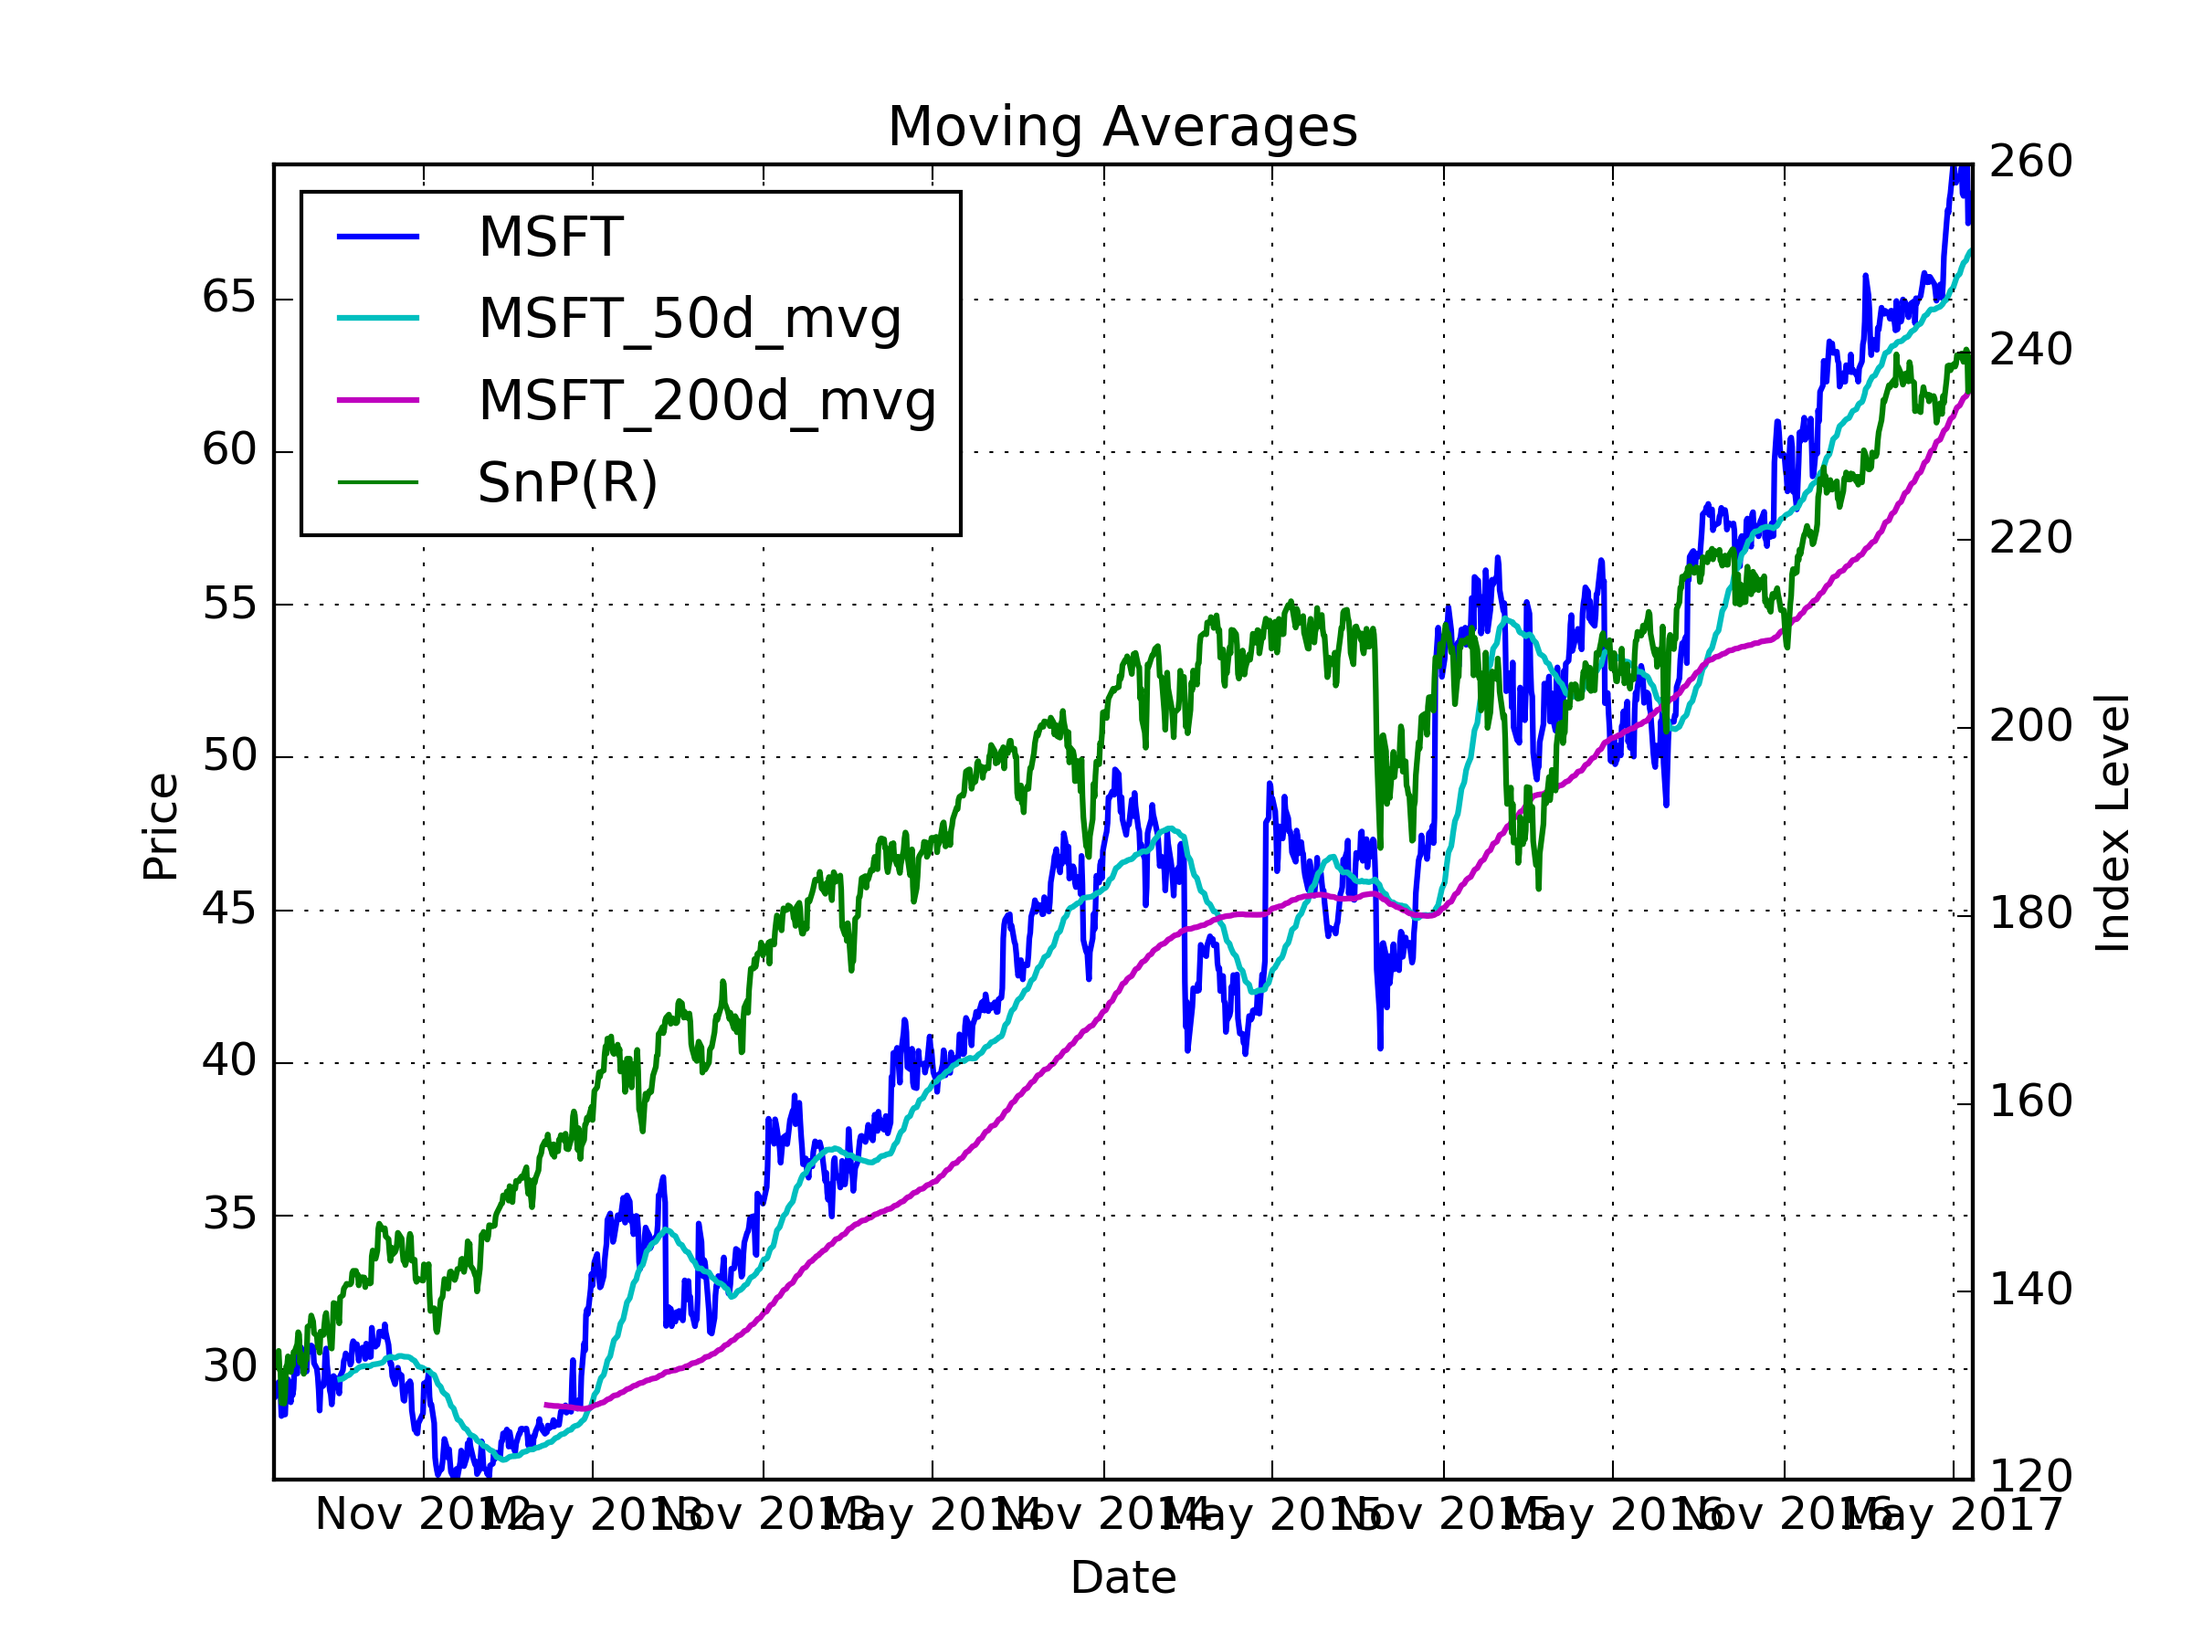
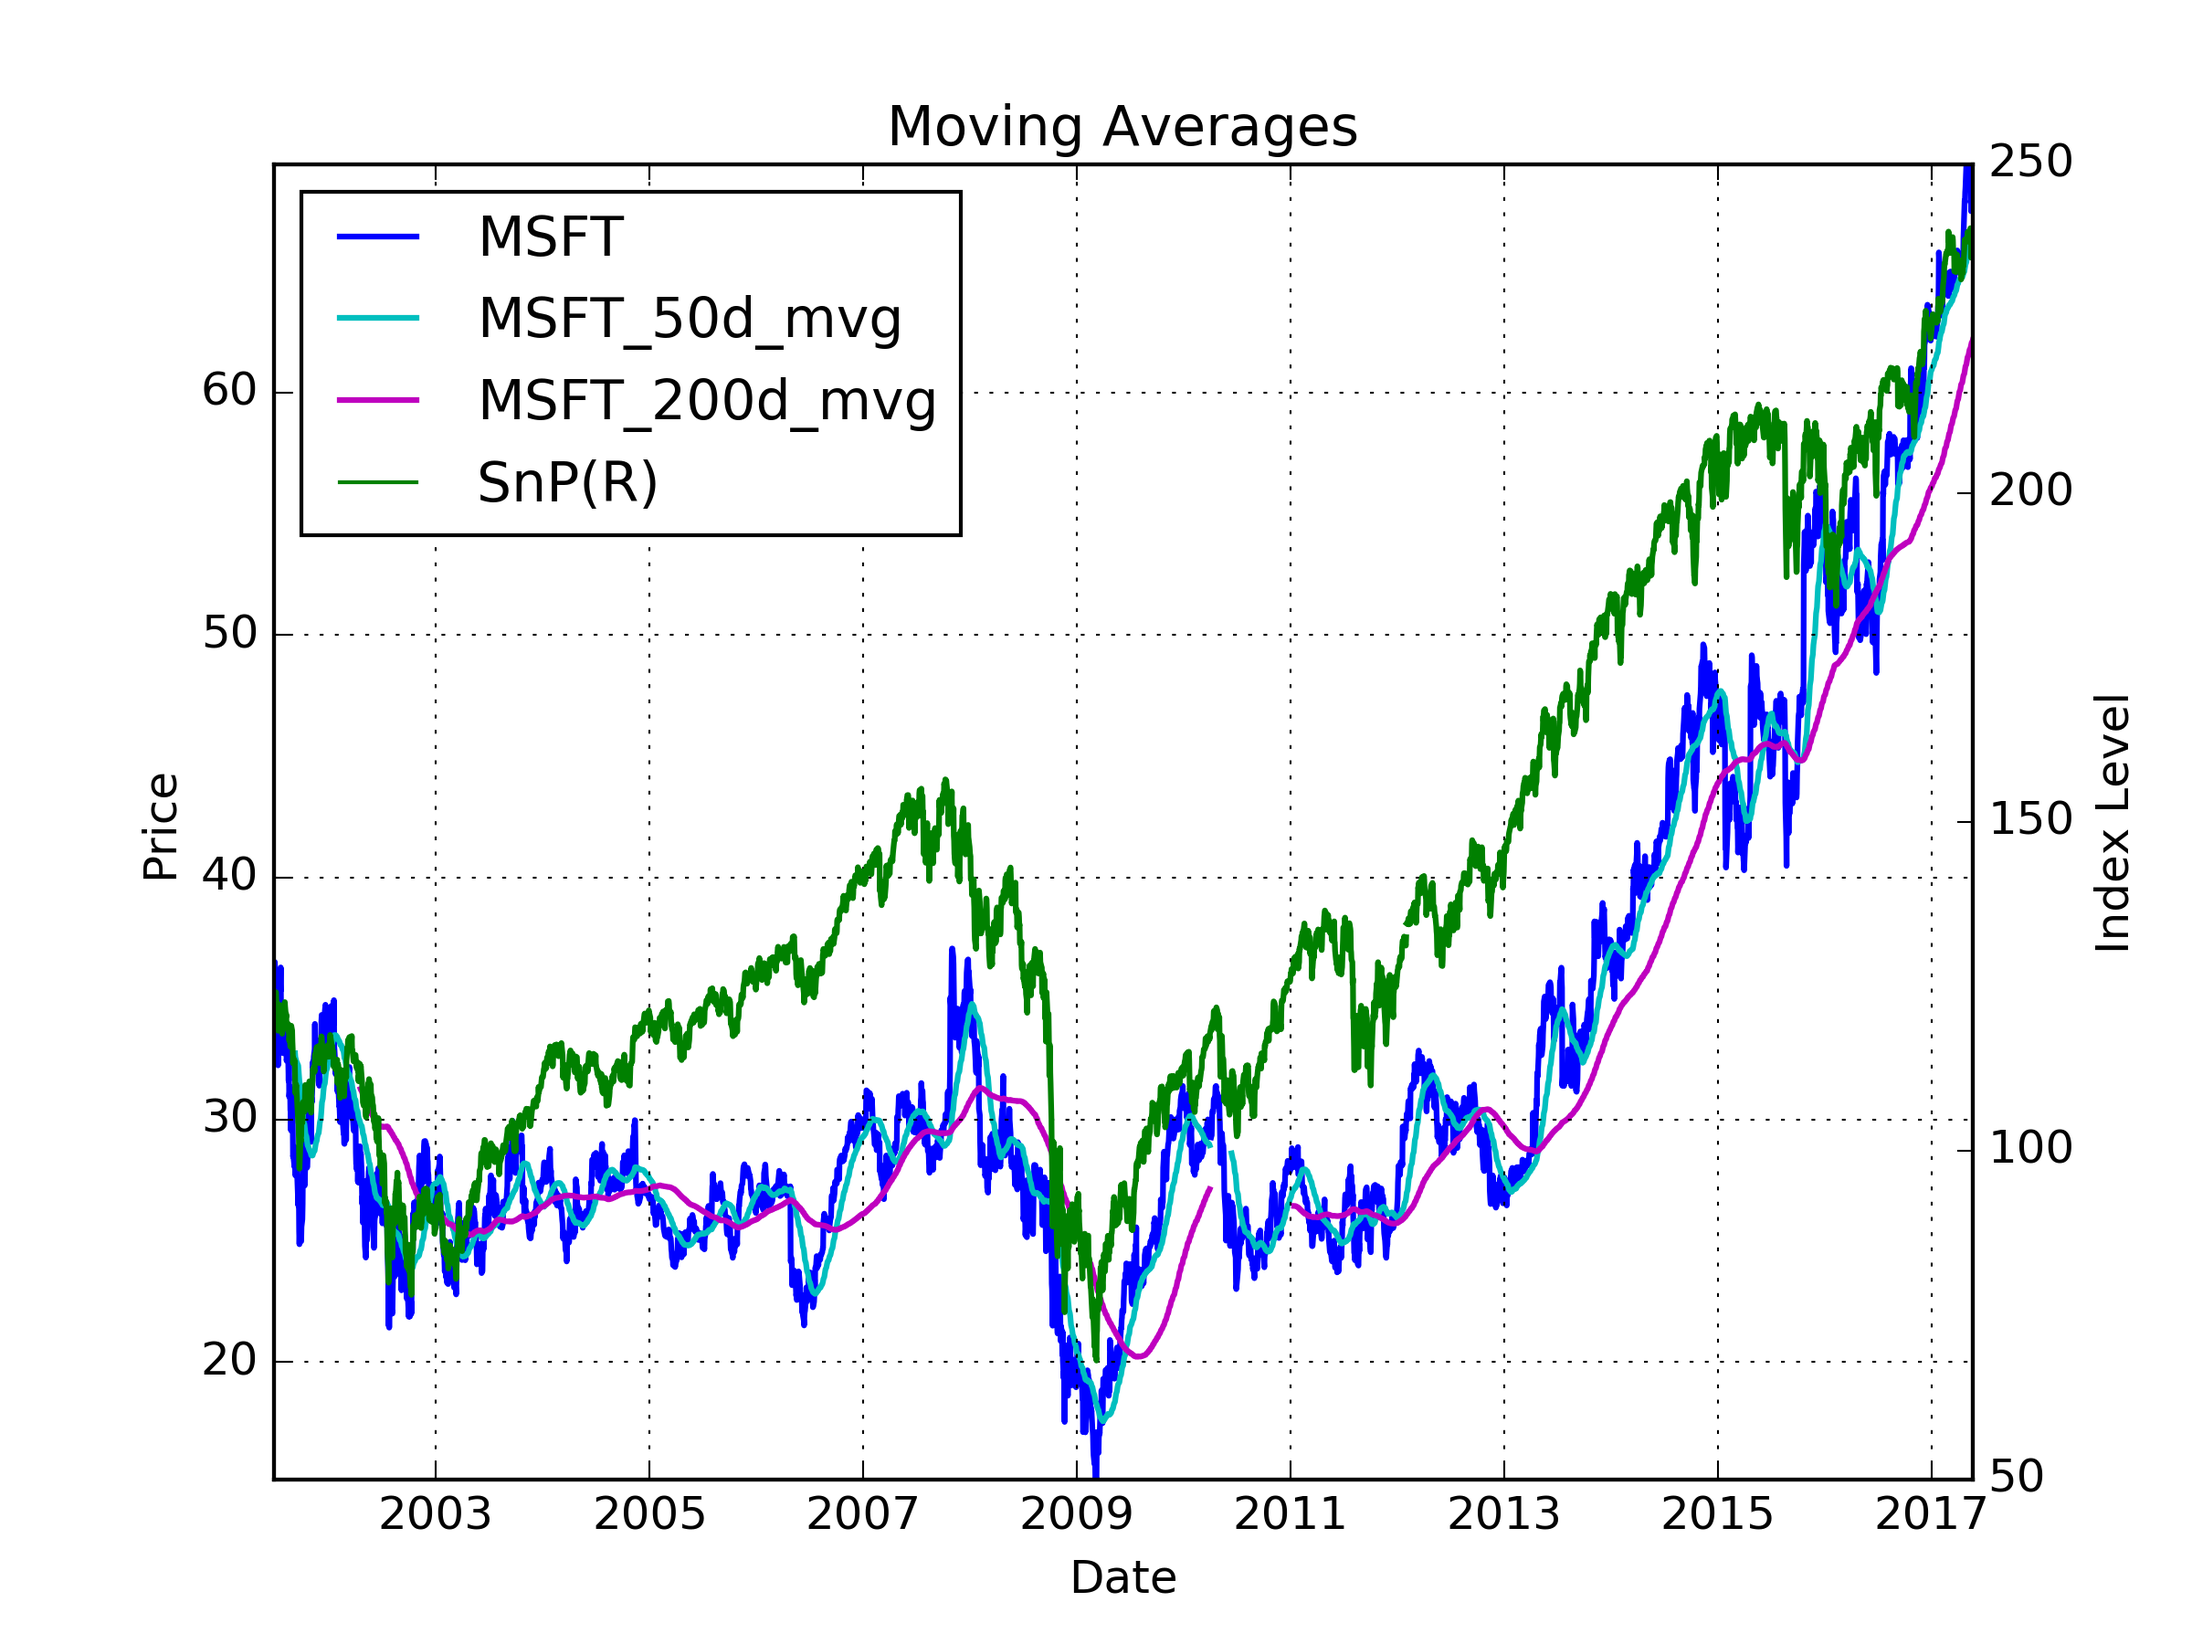
adding a ratios cahrt and option analysis tab, need to do machine learning next

diff --git a/app/templates/opt_analysis.html b/app/templates/opt_analysis.html
@@ -1,0 +1,61 @@
+<!-- extend base layout -->
+{% extends "base.html" %}
+
+{% block content %}
+    <link rel="stylesheet" href="//maxcdn.bootstrapcdn.com/bootstrap/3.3.1/css/bootstrap.min.css"/>
+    <link rel="stylesheet" href="//maxcdn.bootstrapcdn.com/font-awesome/4.5.0/css/font-awesome.min.css"/>
+    <link href="/static/css/equity_analysis.css" rel="stylesheet" type="text/css">
+    <script src="/static/js/equity_analysis.js"></script>
+    
+    <div class="container-fluid">
+        <h1 class="text-primary text-center">Equity Analysis</h1>
+        <div id=input_div>
+            <div class="row">
+                <div class="col-xs-3">
+                    <label class="optanal">Status: </label>
+                </div>
+                <div class="col-xs-3">
+                    <label id="optanal_status" class="optanal">Ready </label>
+                </div>
+            </div>
+            <div class="row">
+                <div class="col-xs-3">
+                    <label class="optanal">Ticker:</label>
+                </div>
+                <div class="col-xs-3">
+                    <input id="optanal_ticker" type="text" class='opt_fields' required id='ticker' value=""/>
+                </div>
+            </div>
+            <div class="row">
+                <div class="col-xs-3">
+                    <label class="optanal">Chart Set:</label>
+                </div>
+                <div class="col-xs-3">
+                    <select id="optanal_charts" class='opt_fields' required id='chart' value="">
+                        <option value="CP1">Chart Pack 1</option>
+                        <option value="CP2">Chart Pack 2</option>
+                    </select>
+                </div>
+            </div>
+            <div class="row">
+                <div class="col-xs-3">
+                    <label class="optanal">Date:</label>
+                </div>
+                <div class="col-xs-3">
+                    <input id="optanal_date" type="date" class='opt_fields' required id='ticker' value=""/>
+                </div>
+            </div>
+            <div class="row">
+                <div class="col-xs-4">
+                    <button id="get_data_btn" class='optanal btn btn-primary' onclick="optanal_get_data(event, '{{ SECRET_KEY }}');">Get Data  <i class='fa fa-calculator'></i></button>
+                </div>
+                <div class="col-xs-4">
+                    <button id="optanal_charts_btn" class='optanal btn btn-info' onclick="optanal_gen_charts(event, '{{ SECRET_KEY }}');">Generate Charts  <i class='fa fa-area-chart'></i></button>
+                </div>
+            </div>
+        </div>
+    </div>
+
+{% endblock %}
+
+

diff --git a/app/templates/base.html b/app/templates/base.html
@@ -58,6 +58,7 @@
                   <span class="caret"></span></button>
                 <ul class="dropdown-menu">
                   <li><a href="{{ url_for('opt_vanilla') }}">Vanilla Options</a></li>
+                  <li><a href="{{ url_for('opt_analysis') }}">Option Analysis</a></li>
                   <li><a href="#">Exotic Option</a></li>
                 </ul>
               </div></li>

diff --git a/app/equity/analysis_eqs/chartpacks.py b/app/equity/analysis_eqs/chartpacks.py
@@ -5,26 +5,23 @@ import matplotlib as mpl
 mpl.use('Agg')
 import datetime, pdb
 import matplotlib.pyplot as plt
-from pandas_datareader.data import DataReader
 from config import IMG_PATH
-from app.equity.analysis_eqs.utils_analysis import getKeyStatsDataFrame, stringToDate
+from app.equity.analysis_eqs import utils_analysis
 from app.equity.data_grab import ms_dg_helper
 from app.utils import mpl_utils
 
 
 
-def mvg_avgs(tickers, duration, date=datetime.date.today().strftime('%Y-%m-%d')):
-    date = stringToDate(date)
-    tickers.append('SPY')
-    df = DataReader(tickers, 'google', date - datetime.timedelta(duration*365), date)
-    df = df.ix[3]
-    mv_avg_50 = df[df.columns[0]].rolling(center=False,window=50).mean()
+def mvg_avgs(ts, tickers, duration, date=datetime.date.today().strftime('%Y-%m-%d')):
+    pdb.set_trace()
+    ts = ts.ix[3]
+    mv_avg_50 = ts[ts.columns[0]].rolling(center=False,window=50).mean()
     mv_avg_50.name = mv_avg_50.name + "_50d_mvg"
-    mv_avg_200 = df[df.columns[0]].rolling(center=False,window=200).mean()
+    mv_avg_200 = ts[ts.columns[0]].rolling(center=False,window=200).mean()
     mv_avg_200.name = mv_avg_200.name + "_200d_mvg"
-    dates = df.index.values
-    plots = [df[df.columns[0]], mv_avg_50, mv_avg_200]
-    index = df[df.columns[-1]]
+    dates = ts.index.values
+    plots = [ts[ts.columns[0]], mv_avg_50, mv_avg_200]
+    index = ts[ts.columns[-1]]
     
     plt.figure(figsize=(7,4))
     fig, ax1 = plt.subplots()
@@ -50,24 +47,53 @@ def mvg_avgs(tickers, duration, date=datetime.date.today().strftime('%Y-%m-%d'))
     plt.close()
     return(IMG_PATH + "mvg_avgs.png")
 
-def price_ratios(ms_df, tickers, date=datetime.date.today().strftime('%Y-%m-%d')):
+def price_ratios(ts, ms_df, tickers, date=datetime.date.today().strftime('%Y-%m-%d')):
     col_map = ms_dg_helper.KEY_STATS + ms_dg_helper.RETURNS + \
-            ms_dg_helper.GROWTH + ms_dg_helper.MARGINS + ms_dg_helper.RATIOS + ['revenue']
+            ms_dg_helper.GROWTH + ms_dg_helper.MARGINS + ms_dg_helper.RATIOS + ['date']
     col_list = [c for c in col_map if c in ms_df.columns]
     ms_df = ms_df[col_list]
+    dates = ms_df['date']
+    start_date = ms_df['date'].min() + '-01-01'
+    
+    
+    plt.figure(figsize=(7,4))
+    fig, ax1 = plt.subplots()
+    col_ct = 0
+    for cat in ['trailingPE', 'priceToBook', 'priceToSales', 'priceToCashFlow']:
+        ax1.plot(dates, ms_df[cat].values, mpl_utils.COLORS[col_ct], lw=1.5, label=cat)
+        col_ct+=1
+    # plt.plot(dates, plots[0].values, label='test')
+    ax1.axis('tight')
+    ax1.set_xlabel('Date')
+    ax1.set_ylabel('Price')
+    ax1.grid(True)
+    
+    # # Key line below - get a second plot that shares the x axis
+    ax2 = ax1.twinx()
+    ts = ts.ix[3].reset_index()
     pdb.set_trace()
-    print()
-
+    ax2.plot(ts[ts['Date'] > start_date][ts.columns[0]], ts[ts['Date'] > start_date][ts.columns[-1]], mpl_utils.COLORS[col_ct], lw=1.5, label="SnP")
+    # to add it to the legend
+    ax1.plot(0,0, mpl_utils.COLORS[col_ct], label="SnP(R)")
+    ax1.legend(loc=0)
+    ax2.set_ylabel('Index Level')
+    plt.title('Moving Averages')
+    plt.savefig(IMG_PATH + 'mvg_avgs', dpi=300)
+    plt.close()
+    return(IMG_PATH + "mvg_avgs.png")
+    
+    
 def run(tickers, date, cp):
-    ms_df = getKeyStatsDataFrame(tickers=tickers, table="morningstar", date="")
+    ts = utils_analysis.getTS(tickers, date)
+    ms_df = utils_analysis.getKeyStatsDataFrame(tickers=tickers, table="morningstar", date="")
     pngs = []
     if cp == "CP1":
-        # pngs.append(mvg_avgs(tickers, 5, date))
-        pngs.append(price_ratios(ms_df, tickers, date))
+        # pngs.append(mvg_avgs(ts, tickers, 5, date))
+        pngs.append(price_ratios(ts, ms_df, tickers, date))
     return pngs
 
 
 if __name__ == "__main__":
-    run(['MSFT'], "", "CP1")
+    run(['MSFT'], "2017-05-24", "CP1")
 
 

diff --git a/app/equity/data_grab/morningstar_dg.py b/app/equity/data_grab/morningstar_dg.py
@@ -14,7 +14,7 @@ from threading import Thread
 from pandas_datareader.data import DataReader
 from app.equity.screener_eqs.create_symbols import create_symbols
 from app.equity.data_grab import ms_dg_helper
-from app.utils.db_utils import DBHelper
+from app.utils.db_utils import DBHelper, restart
 
 success = []
 failure = []
@@ -250,6 +250,7 @@ def addBasicCustomCols(df, qr):
     df['trailingPE'] = df['currentPrice'] / df['trailingEPS']
     df['priceToBook'] = df['currentPrice'] / df['bookValuePerShare']
     df['priceToSales'] = df['currentPrice'] / df['revenuePerShare']
+    df['priceToCashFlow'] = df['currentPrice'] / df['freeCashFlowPerShare']
     df['grossProfit'] = (1-df['cogs']) * df['revenue']
     df['marketCapital'] = df['shares'] * df['currentPrice']
     df['totalAssets'] = df['bookValuePerShare'] / df['totalEquity']
@@ -330,4 +331,6 @@ def sendToDB(df):
             db.upsert(table, val_dict, prim_keys)
 
 if __name__ == "__main__":
-    getData(['MSFT'])
+    # restart()
+    # getData(['MSFT'])
+    getData()

diff --git a/app/equity/data_grab/ms_dg_helper.py b/app/equity/data_grab/ms_dg_helper.py
@@ -100,6 +100,7 @@ CUSTOM_COL_MAP = {
     "Treynor Ratio" : "treynorRatio",                               # Ratio
     "Beta" : "beta",                                                # Gross
     "Market Correlation" : "marketCorr",                            # Gross
+    "Price To Free Cash Flow" : "priceToCashFlow"                   # Ratio
 }
 
 
@@ -119,7 +120,7 @@ PER_SHARE = ["bookValuePerShare", "freeCashFlowPerShare", "revenuePerShare",
 RATIOS = ["sharpeRatio", "currentRatio", "quickRatio", "financialLeverage", "debtToEquity", 
         "interestCoverage", "capExToSales", "freeCashFlowToSales", "freeCashFlowToNetIncome",
         "trailingPE", "priceToBook", "priceToSales", "pegRatio", "assetTurnoverRatio",
-        "treynorRatio"]
+        "treynorRatio", 'priceToCashFlow']
 MARGINS = ["grossMargin", "operatingMargin", "netInterestOtherMargin", "EBTMargin",
             "netIncomeMargin", "enterpriseToRevenue"]
 RETURNS = ["returnOnAssets", "returnOnEquity", "returnOnCapital", "1yrReturn",

diff --git a/app/equity/analysis_eqs/utils_analysis.py b/app/equity/analysis_eqs/utils_analysis.py
@@ -3,6 +3,7 @@ sys.path.append("/home/ubuntu/workspace/finance")
 sys.path.append("/usr/local/lib/python2.7/dist-packages")
 import datetime, pdb
 import numpy as np
+from pandas_datareader.data import DataReader
 from app.utils.db_utils import *
 from app.equity.screener_eqs.equity_screener import get_data
 from app.equity.screener_eqs.equity_stats import EquityStats, ES_Dataframe
@@ -187,6 +188,17 @@ def stringToDate(date):
     new_date = [int(d) for d in date.split("-")]
     return datetime.date(new_date[0], new_date[1], new_date[2])
 
+def normalize(ms_df, years, column):
+    return ms_df[ms_df[column]].rolling(center=False,window=years).mean()
+
+def getTS(tickers, date):
+    date = stringToDate(date)
+    tickers.append('SPY')
+    df = DataReader(tickers, 'google', "1997-01-01", date)
+    return df
+    
+
 if __name__ == "__main__":
     # loadDataToDB()
-    pass
+    df = getKeyStatsDataFrame(date='', tickers=['MSFT'], table='morningstar')
+    print(normalize(df, 5, 'EPS'))

diff --git a/app/views.py b/app/views.py
@@ -66,6 +66,14 @@ def futures_calc():
     return render_template('futures_calc.html',
                            title='Futures Calculator')
 
+@app.route('/opt_analysis', methods=['GET', 'POST'])
+def opt_analysis():
+    # if request.method == 'POST' or request.method=='GET':
+    if request.method == 'POST':
+        eqanal_post(request)
+    return render_template('opt_analysis.html',
+                           title='Option Analysis'), 200
+
 @app.route('/option/vanilla', methods=['GET', 'POST'])
 def opt_vanilla():
     if request.method == 'POST':
